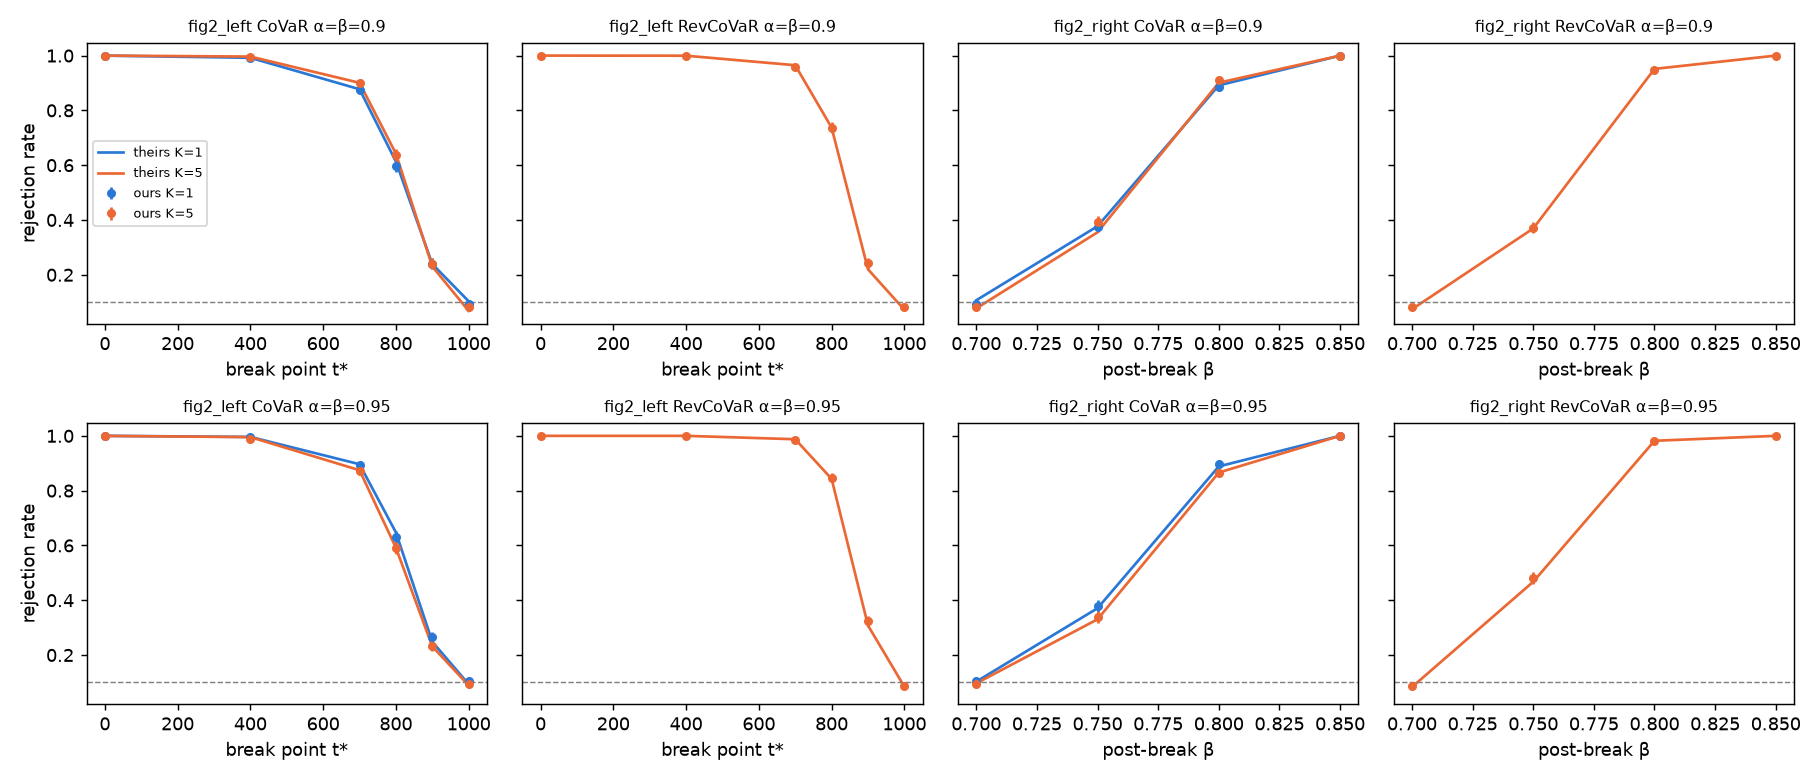
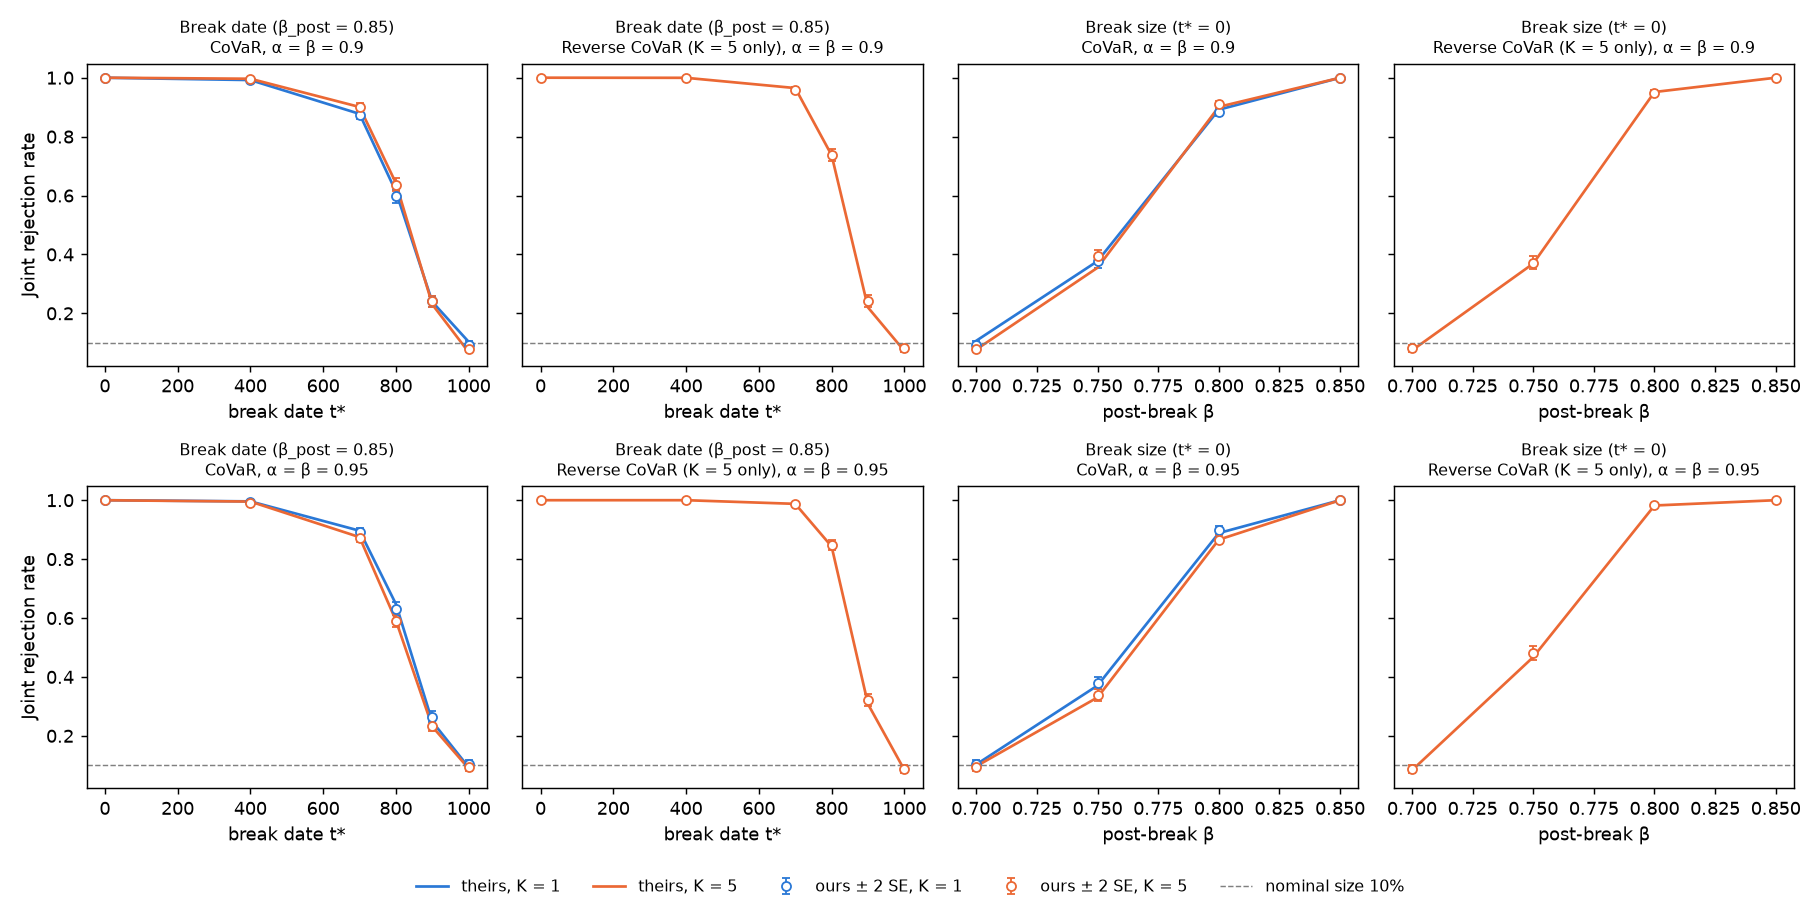
Polish Figure 2: hollow markers, plain titles, shared legend; add --plot-only

diff --git a/experiments/04_fig2_power.py b/experiments/04_fig2_power.py
@@ -5,7 +5,7 @@ break_in_X = TRUE. Fig 2 left: beta_post = 0.85, t* in {0, 400, 700, 800, 900, 1
 beta_post in {0.70, 0.75, 0.80, 0.85}. Fig 3: K = 5, alpha = 0.9 first-detector shares. Delays: Joint,
 t* in {400, 700}. PASS iff |ours - theirs| <= 3 sqrt(SE_ours^2 + SE_theirs^2).
 
-Usage: python experiments/04_fig2_power.py [--M 2000] [--seed 2026] [--jobs 3] [--only T,BP] [--force]
+Usage: python experiments/04_fig2_power.py [--M 2000] [--seed 2026] [--jobs 3] [--only T,BP] [--force] [--plot-only]
 """
 import argparse
 import time
@@ -132,8 +132,11 @@ def pass_table(df, idx, col):
 
 
 def plot_fig2(t2, path):
-    fig, axes = plt.subplots(2, 4, figsize=(14, 6), sharey=True)
+    fig, axes = plt.subplots(2, 4, figsize=(14, 7), sharey=True)
     cols = {1: "#2a78d6", 5: "#eb6834"}
+    panels = {"fig2_left": ("Break date (β_post = 0.85)", "break date t*"),
+              "fig2_right": ("Break size (t* = 0)", "post-break β")}
+    meas_names = {"CoVaR": "CoVaR", "RevCoVaR": "Reverse CoVaR (K = 5 only)"}
     for i, lv in enumerate(LEVELS):
         for j, (figname, meas) in enumerate([(f, m) for f in ("fig2_left", "fig2_right")
                                              for m in ("CoVaR", "RevCoVaR")]):
@@ -142,15 +145,21 @@ def plot_fig2(t2, path):
                 s = t2[(t2.figure == figname) & (t2.Measure == meas) & (t2.alpha == lv) & (t2.K == K)]
                 if s.empty:
                     continue
-                ax.plot(s.x, s.theirs, "-", color=cols[K], label=f"theirs K={K}")
-                ax.errorbar(s.x, s.ours, yerr=2 * s.se_ours, fmt="o", color=cols[K], ms=4, label=f"ours K={K}")
-            ax.axhline(0.1, color="grey", ls="--", lw=0.8)
-            ax.set_title(f"{figname} {meas} α=β={lv}", fontsize=9)
-            ax.set_xlabel("break point t*" if figname == "fig2_left" else "post-break β")
-    axes[0, 0].set_ylabel("rejection rate")
-    axes[1, 0].set_ylabel("rejection rate")
-    axes[0, 0].legend(fontsize=7)
-    fig.tight_layout()
+                ax.plot(s.x, s.theirs, "-", color=cols[K], lw=1.5, label=f"theirs, K = {K}")
+                ax.errorbar(s.x, s.ours, yerr=2 * s.se_ours, fmt="o", mfc="white", mec=cols[K], ecolor=cols[K],
+                            ms=5, capsize=2, lw=1, label=f"ours ± 2 SE, K = {K}")
+            ax.axhline(0.1, color="grey", ls="--", lw=0.8, label="nominal size 10%")
+            title, xlabel = panels[figname]
+            ax.set_title(f"{title}\n{meas_names[meas]}, α = β = {lv}", fontsize=9)
+            ax.set_xlabel(xlabel)
+    axes[0, 0].set_ylabel("Joint rejection rate")
+    axes[1, 0].set_ylabel("Joint rejection rate")
+    handles, labels = axes[0, 0].get_legend_handles_labels()
+    order = [labels.index(l) for l in ("theirs, K = 1", "theirs, K = 5", "ours ± 2 SE, K = 1",
+                                       "ours ± 2 SE, K = 5", "nominal size 10%")]
+    fig.legend([handles[k] for k in order], [labels[k] for k in order], loc="lower center", ncol=5,
+               frameon=False, fontsize=9)
+    fig.tight_layout(rect=(0, 0.05, 1, 1))
     fig.savefig(path, dpi=130)
     plt.close(fig)
 
@@ -181,8 +190,14 @@ def main():
     ap.add_argument("--jobs", type=int, default=3)
     ap.add_argument("--only", type=str, default=None, help="one scenario 'T,BP' (smoke test)")
     ap.add_argument("--force", action="store_true")
+    ap.add_argument("--plot-only", action="store_true", help="re-plot Fig 2 from the saved exp04_fig2 CSV")
     args = ap.parse_args()
     paths.ensure_dirs()
+    if args.plot_only:
+        t2 = pd.read_csv(paths.DERIVED / f"exp04_fig2_M{args.M}_s{args.seed}.csv")
+        plot_fig2(t2, paths.FIGURES / "fig2_ours_vs_theirs.png")
+        print("wrote figures/fig2_ours_vs_theirs.png")
+        return
     pd.set_option("display.width", 220, "display.max_rows", 400, "display.max_columns", 40)
     t0 = time.time()
 
